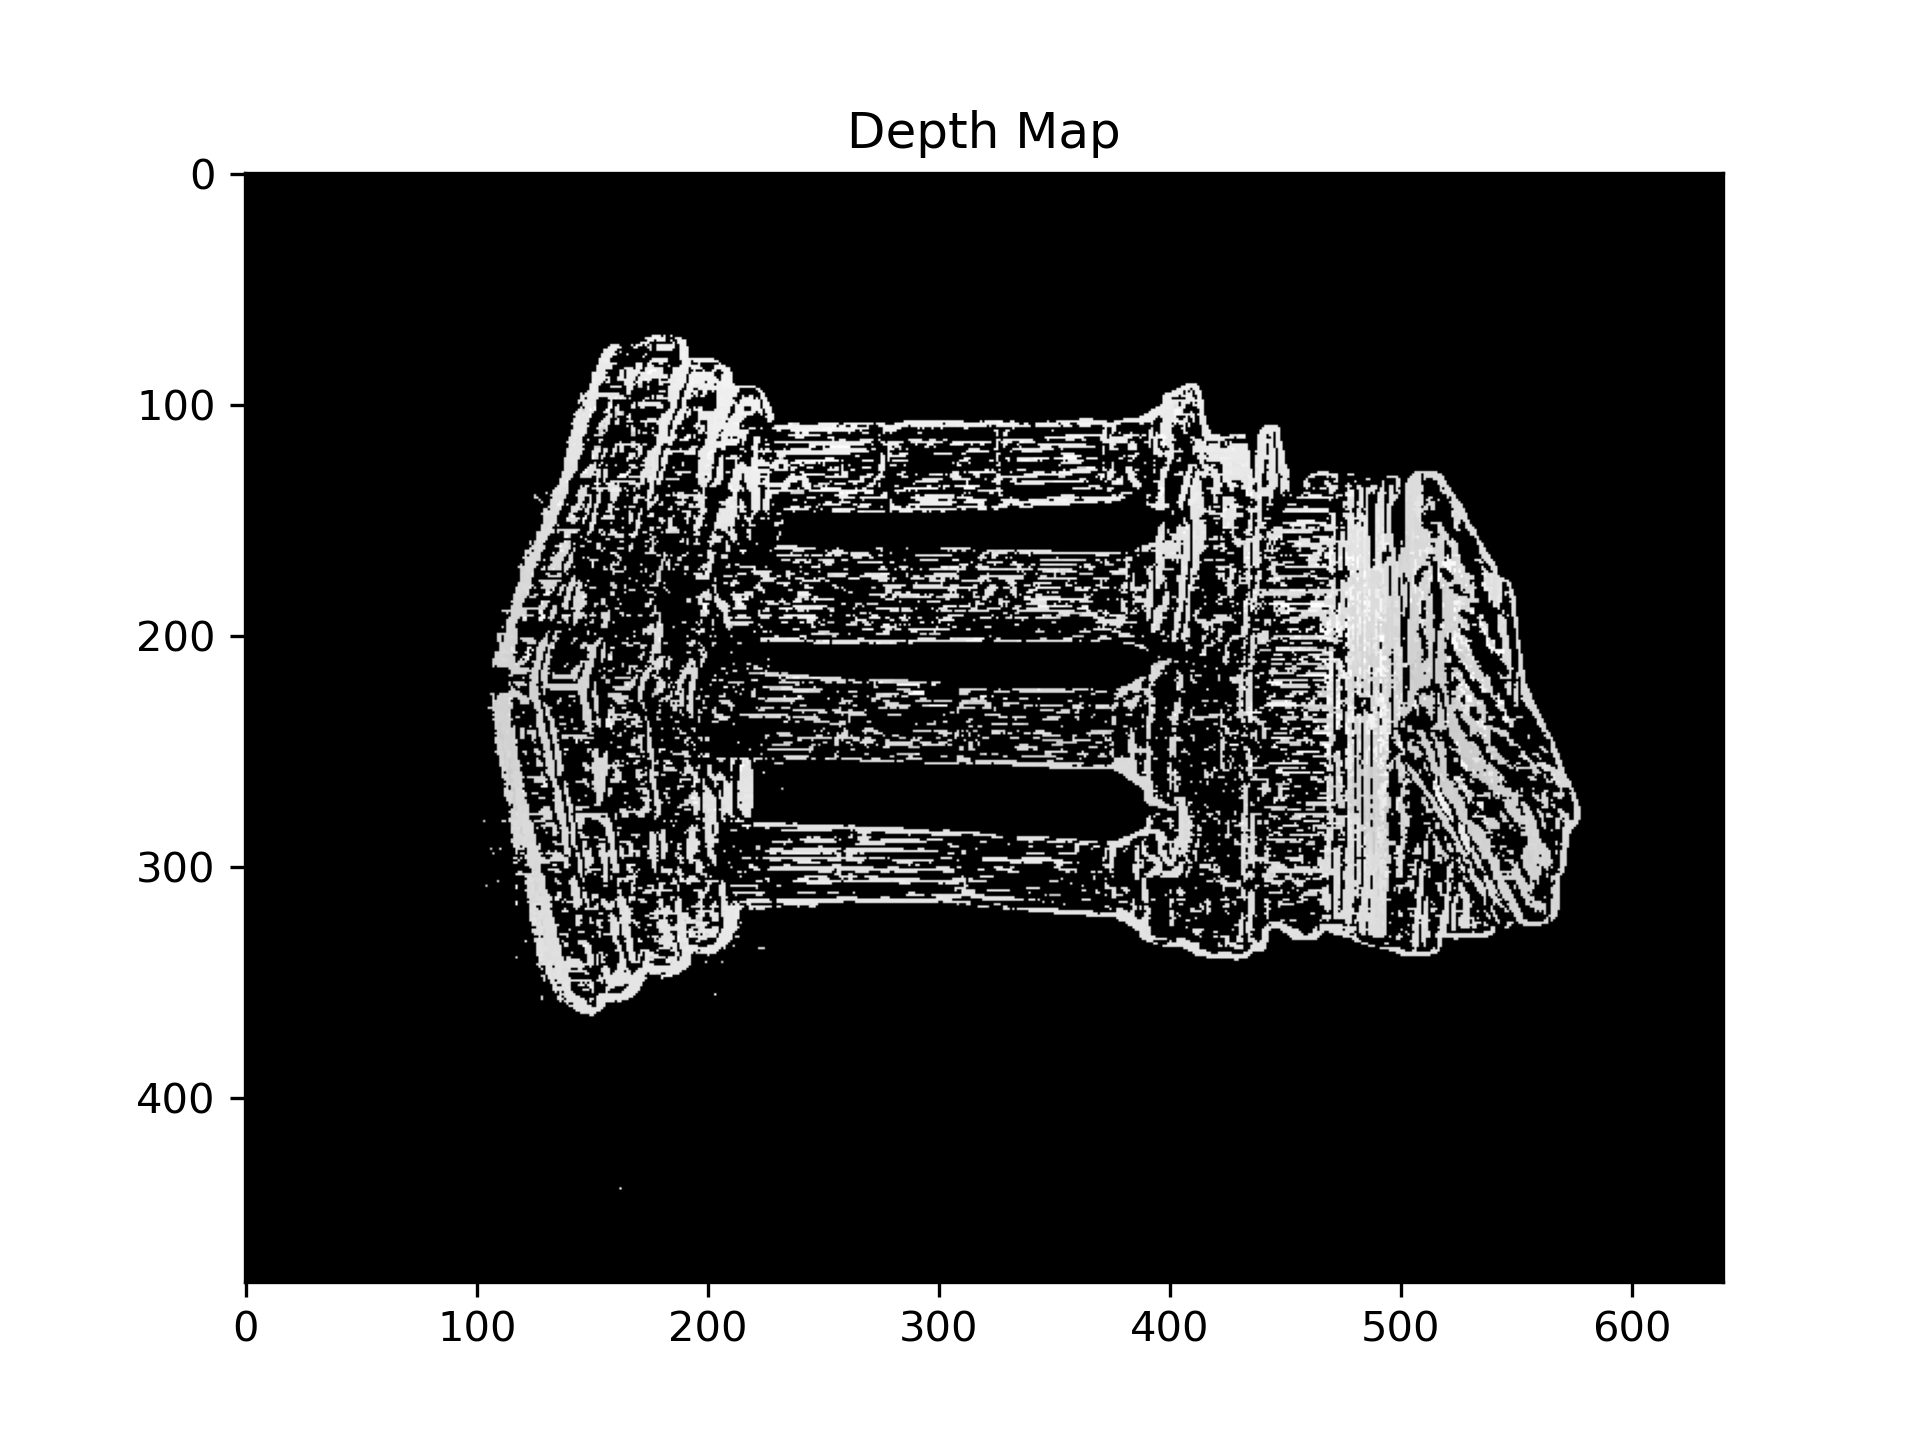
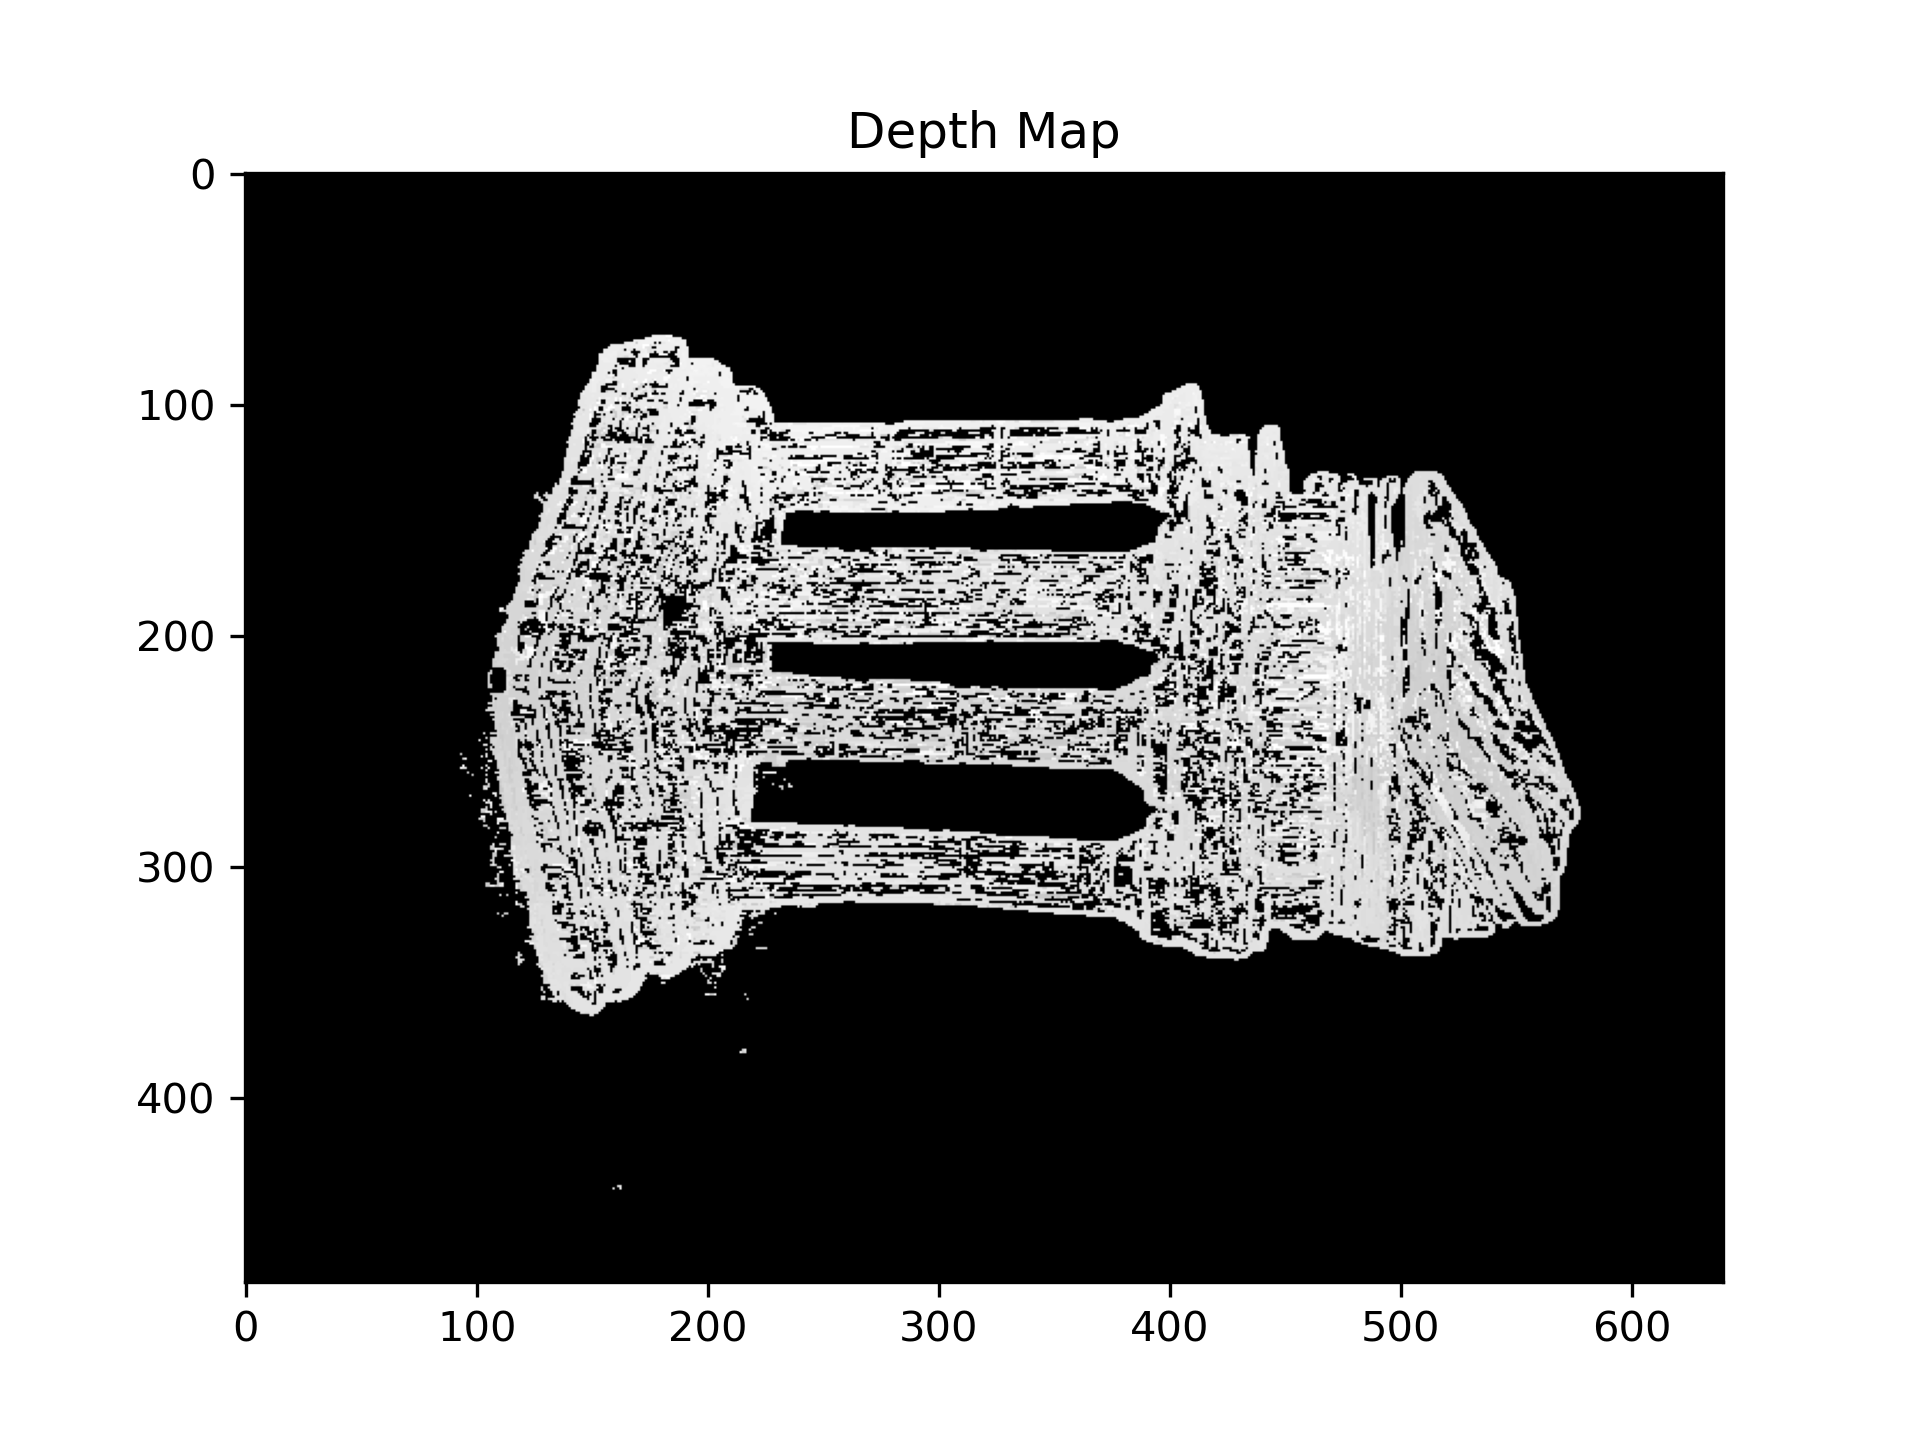
backup

Changed region(s): [[0.25, 0.2188, 0.8125, 0.7188]]

diff --git a/project5/python/multiViewStereo.py b/project5/python/multiViewStereo.py
@@ -189,7 +189,7 @@ if __name__ == "__main__":
     max_depth = np.max(depth_values)
 
     depth_step = (max_depth-min_depth)/25
-    d = DepthmapAlgorithm(images[0], images[1], images[2], images[3], min_depth, max_depth, depth_step, S=3, consistency_threshold=0.7)
+    d = DepthmapAlgorithm(images[0], images[1], images[2], images[3], min_depth, max_depth, depth_step, S=3, consistency_threshold=0.5)
     
     gray_image = cv2.cvtColor(images[0]["mat"] , cv2.COLOR_RGB2GRAY)
 
